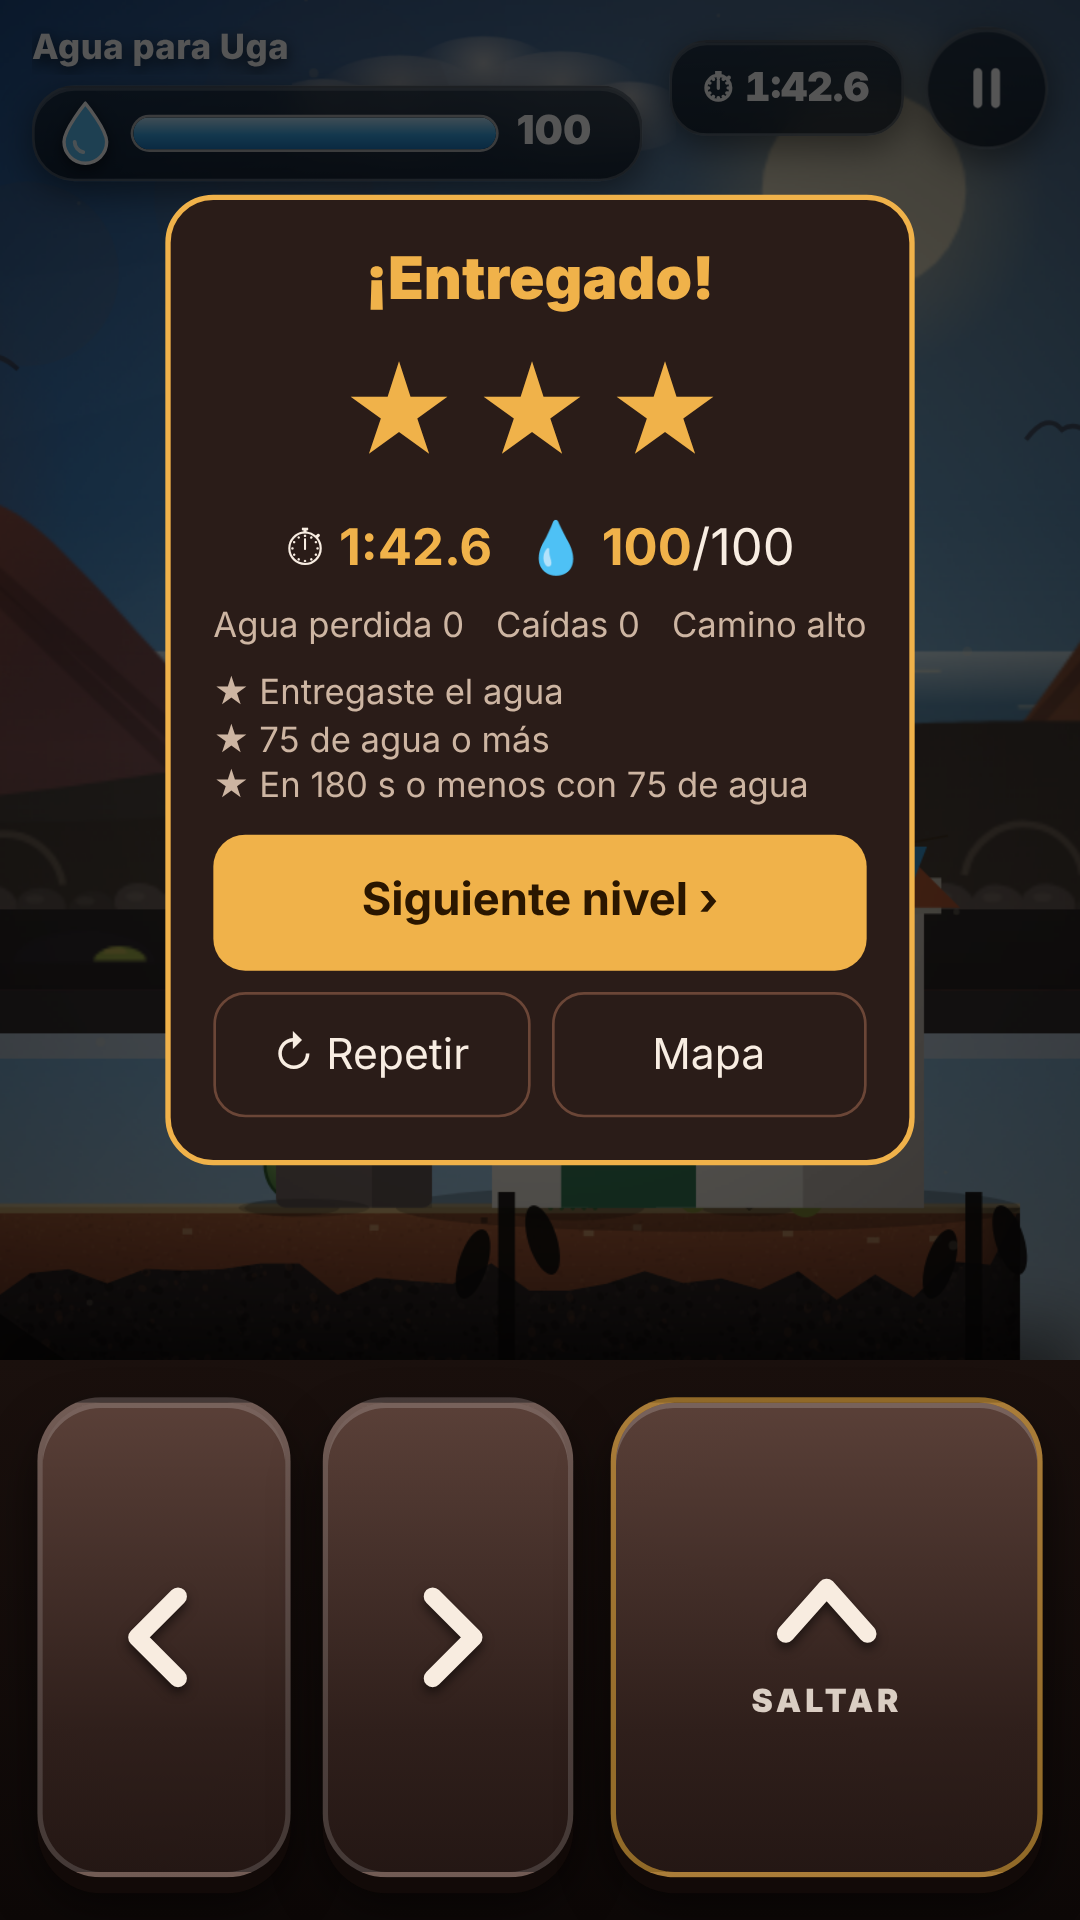
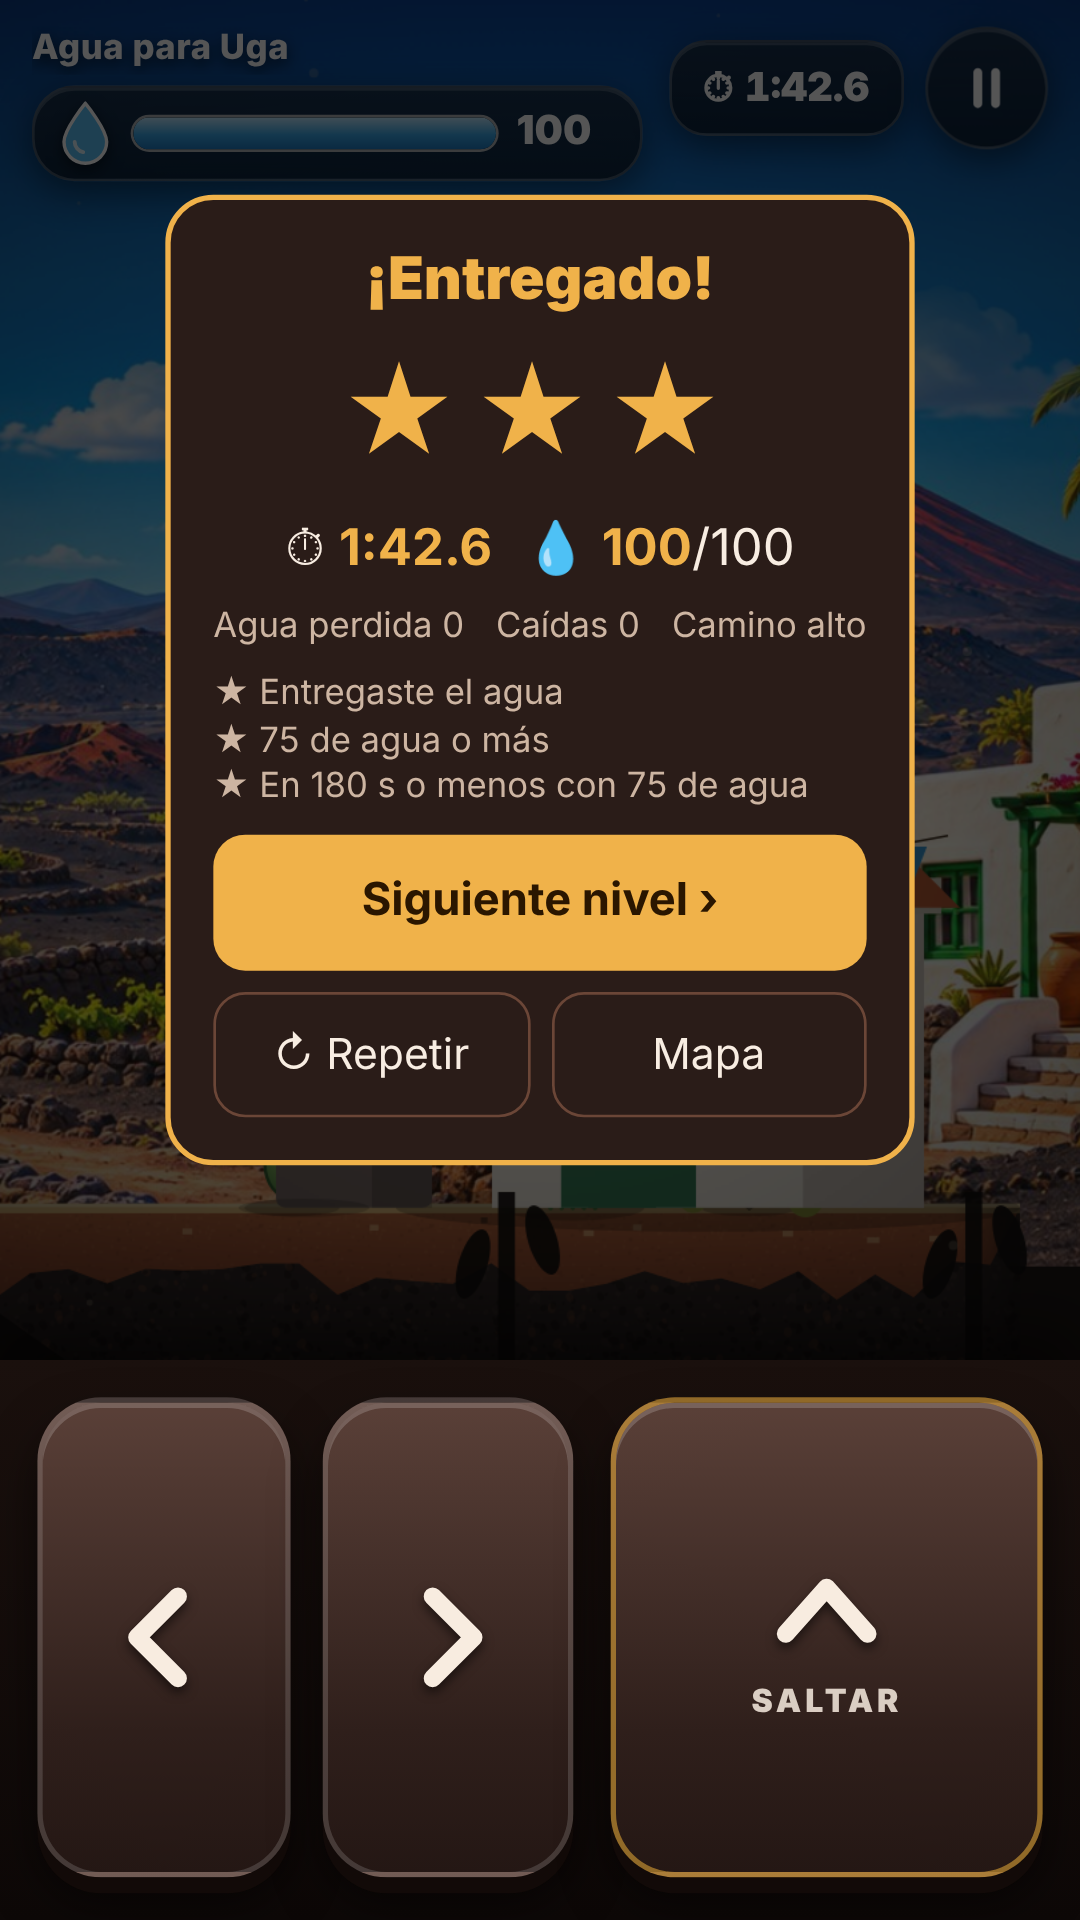
1.11.0: paisajes ilustrados de Lanzarote como fondo (mañana, tarde y atardecer según el nivel), en espejo con paralaje y apoyados en el suelo visible
Claude-Session: https://claude.ai/code/session_01H2Jf8v1MHtV6zTpVoU4WWj

diff --git a/docs/app/dibujo.js b/docs/app/dibujo.js
@@ -460,7 +460,34 @@
     ctx.fillStyle = '#16100f'; ctx.fillRect(0, by + u * 0.8, W, H);
   }
 
+  /* Paisaje ilustrado (paisaje.jpg, 1672×640): se repite en espejo para que empalme sin cortes y se desplaza despacio (paralaje) */
+  const PAI = { w: 1672, h: 640, suelo: null, fotos: [
+    { src: 'paisaje.jpg', cielo: ['#0050c0', '#0e8ce7'] },          // mañana y mediodía
+    { src: 'paisaje-tarde.jpg', cielo: ['#3d78d0', '#669fe9'] },    // tarde
+    { src: 'paisaje-ocaso.jpg', cielo: ['#41629c', '#6c8cc4'] }],   // atardecer
+    porTema: [0, 0, 1, 2, 1, 2] };
+  function fotoTema(tema) {
+    const f = PAI.fotos[PAI.porTema[tema] || 0];
+    if (!f.img && typeof Image !== 'undefined') { f.img = new Image(); f.img.onload = () => { f.ok = true; }; f.img.src = f.src; }
+    return f.ok ? f : null;
+  }
+  fotoTema(0);
+  function dibujaPaisaje(ctx, W, H, u, cam, TM, t, F) {
+    const suelo = (PAI.suelo != null ? PAI.suelo : H - H * (W < H ? 0.27 : 0.3)) + u * 0.5;   // el dibujo se apoya en el suelo que se ve en pantalla
+    const alto = Math.max(suelo * 0.78, u * 6.5), k = alto / PAI.h, ancho = PAI.w * k, top = suelo - alto;
+    let g = ctx.createLinearGradient(0, 0, 0, Math.max(1, top + 2)); g.addColorStop(0, F.cielo[0]); g.addColorStop(1, F.cielo[1]); ctx.fillStyle = g; ctx.fillRect(0, 0, W, Math.max(0, top) + 2);
+    const off = cam.x * u * 0.18, i0 = Math.floor(off / ancho);
+    for (let i = i0; ancho * i - off < W; i++) {
+      const x = ancho * i - off;
+      if (i % 2 === 0) ctx.drawImage(F.img, x, top, ancho + 1, alto);
+      else { ctx.save(); ctx.translate(x + ancho, top); ctx.scale(-1, 1); ctx.drawImage(F.img, 0, 0, ancho + 1, alto); ctx.restore(); }
+    }
+    if (top > 0) { const fz = alto * 0.14, gf = ctx.createLinearGradient(0, top - 1, 0, top + fz); gf.addColorStop(0, F.cielo[1]); gf.addColorStop(1, F.cielo[1] + '00'); ctx.fillStyle = gf; ctx.fillRect(0, top - 1, W, fz + 1); }   // empalme suave entre el cielo y el dibujo
+    ctx.fillStyle = '#16100f'; ctx.fillRect(0, suelo - 1, W, H - suelo + 1);
+    if (TM.tinte && TEMAS.indexOf(TM) === 4) { ctx.fillStyle = TM.tinte.replace(/[\d.]+\)$/, m => (parseFloat(m) * 2.5).toFixed(2) + ')'); ctx.fillRect(0, 0, W, suelo); }
+  }
   function dibujaFondo(ctx, W, H, u, cam, TM, t) {
+    { const F = fotoTema(TEMAS.indexOf(TM)); if (F) return dibujaPaisaje(ctx, W, H, u, cam, TM, t, F); }
     const cv = ctx.canvas, tema = TEMAS.indexOf(TM), key = W + 'x' + H + 'x' + u.toFixed(2) + 'x' + tema;
     let c = CACHE.get(cv); if (!c || c.key !== key) { c = { key, capas: {} }; CACHE.set(cv, c); }
     if (!c.cielo) {   // cielo, sol y rayos: una sola vez
@@ -602,6 +629,9 @@
   function dibujaEscena(ctx, W, H, u, cam, L, esc, t, fx) {
     const TM = TEMAS[esc.tema || 0], TX = texturas();
     const sx = wx => (wx - cam.x) * u, sy = wy => H - (wy - cam.y) * u;
+    { // altura en pantalla del suelo bajo el centro de la vista (suavizada) para apoyar el paisaje
+      const cx = cam.x + W / u / 2; let top = null; for (const s of L.solids) if (s.kind === 'ground' && s.x0 <= cx + 3 && s.x1 >= cx - 3 && (top == null || s.top > top)) top = s.top;
+      if (top != null) { const y = sy(top); PAI.suelo = PAI.suelo == null || Math.abs(PAI.suelo - y) > H * 0.5 ? y : PAI.suelo + (y - PAI.suelo) * 0.06; } }
     dibujaFondo(ctx, W, H, u, cam, TM, t);
     // abismo de los huecos
     for (const h of esc.huecos) {

diff --git a/www/dibujo.js b/www/dibujo.js
@@ -460,7 +460,34 @@
     ctx.fillStyle = '#16100f'; ctx.fillRect(0, by + u * 0.8, W, H);
   }
 
+  /* Paisaje ilustrado (paisaje.jpg, 1672×640): se repite en espejo para que empalme sin cortes y se desplaza despacio (paralaje) */
+  const PAI = { w: 1672, h: 640, suelo: null, fotos: [
+    { src: 'paisaje.jpg', cielo: ['#0050c0', '#0e8ce7'] },          // mañana y mediodía
+    { src: 'paisaje-tarde.jpg', cielo: ['#3d78d0', '#669fe9'] },    // tarde
+    { src: 'paisaje-ocaso.jpg', cielo: ['#41629c', '#6c8cc4'] }],   // atardecer
+    porTema: [0, 0, 1, 2, 1, 2] };
+  function fotoTema(tema) {
+    const f = PAI.fotos[PAI.porTema[tema] || 0];
+    if (!f.img && typeof Image !== 'undefined') { f.img = new Image(); f.img.onload = () => { f.ok = true; }; f.img.src = f.src; }
+    return f.ok ? f : null;
+  }
+  fotoTema(0);
+  function dibujaPaisaje(ctx, W, H, u, cam, TM, t, F) {
+    const suelo = (PAI.suelo != null ? PAI.suelo : H - H * (W < H ? 0.27 : 0.3)) + u * 0.5;   // el dibujo se apoya en el suelo que se ve en pantalla
+    const alto = Math.max(suelo * 0.78, u * 6.5), k = alto / PAI.h, ancho = PAI.w * k, top = suelo - alto;
+    let g = ctx.createLinearGradient(0, 0, 0, Math.max(1, top + 2)); g.addColorStop(0, F.cielo[0]); g.addColorStop(1, F.cielo[1]); ctx.fillStyle = g; ctx.fillRect(0, 0, W, Math.max(0, top) + 2);
+    const off = cam.x * u * 0.18, i0 = Math.floor(off / ancho);
+    for (let i = i0; ancho * i - off < W; i++) {
+      const x = ancho * i - off;
+      if (i % 2 === 0) ctx.drawImage(F.img, x, top, ancho + 1, alto);
+      else { ctx.save(); ctx.translate(x + ancho, top); ctx.scale(-1, 1); ctx.drawImage(F.img, 0, 0, ancho + 1, alto); ctx.restore(); }
+    }
+    if (top > 0) { const fz = alto * 0.14, gf = ctx.createLinearGradient(0, top - 1, 0, top + fz); gf.addColorStop(0, F.cielo[1]); gf.addColorStop(1, F.cielo[1] + '00'); ctx.fillStyle = gf; ctx.fillRect(0, top - 1, W, fz + 1); }   // empalme suave entre el cielo y el dibujo
+    ctx.fillStyle = '#16100f'; ctx.fillRect(0, suelo - 1, W, H - suelo + 1);
+    if (TM.tinte && TEMAS.indexOf(TM) === 4) { ctx.fillStyle = TM.tinte.replace(/[\d.]+\)$/, m => (parseFloat(m) * 2.5).toFixed(2) + ')'); ctx.fillRect(0, 0, W, suelo); }
+  }
   function dibujaFondo(ctx, W, H, u, cam, TM, t) {
+    { const F = fotoTema(TEMAS.indexOf(TM)); if (F) return dibujaPaisaje(ctx, W, H, u, cam, TM, t, F); }
     const cv = ctx.canvas, tema = TEMAS.indexOf(TM), key = W + 'x' + H + 'x' + u.toFixed(2) + 'x' + tema;
     let c = CACHE.get(cv); if (!c || c.key !== key) { c = { key, capas: {} }; CACHE.set(cv, c); }
     if (!c.cielo) {   // cielo, sol y rayos: una sola vez
@@ -602,6 +629,9 @@
   function dibujaEscena(ctx, W, H, u, cam, L, esc, t, fx) {
     const TM = TEMAS[esc.tema || 0], TX = texturas();
     const sx = wx => (wx - cam.x) * u, sy = wy => H - (wy - cam.y) * u;
+    { // altura en pantalla del suelo bajo el centro de la vista (suavizada) para apoyar el paisaje
+      const cx = cam.x + W / u / 2; let top = null; for (const s of L.solids) if (s.kind === 'ground' && s.x0 <= cx + 3 && s.x1 >= cx - 3 && (top == null || s.top > top)) top = s.top;
+      if (top != null) { const y = sy(top); PAI.suelo = PAI.suelo == null || Math.abs(PAI.suelo - y) > H * 0.5 ? y : PAI.suelo + (y - PAI.suelo) * 0.06; } }
     dibujaFondo(ctx, W, H, u, cam, TM, t);
     // abismo de los huecos
     for (const h of esc.huecos) {

diff --git a/docs/app/sw.js b/docs/app/sw.js
@@ -1,8 +1,8 @@
 // Service worker: deja la versión web disponible sin conexión.
 // En la app Android no hace falta (los archivos ya van dentro del APK) y podría servir
 // una versión antigua tras actualizar, así que allí se da de baja solo.
-const CACHE = 'martin-v1.10.0';
-const ASSETS = ['./', 'index.html', 'martin.js', 'niveles.js', 'juego.js', 'dibujo.js', 'camello.png', 'portada.jpg', 'manifest.webmanifest', 'icons/icon-192.png', 'icons/icon-512.png', 'icons/icon-maskable-512.png', 'icons/apple-touch-icon.png', 'i18n-en.js', 'i18n-fr.js', 'i18n-de.js', 'i18n-it.js', 'idioma.js', 'masjuegos.js', 'audio-suave.js', 'turno.js', 'contador.js', 'invitacion.js', 'publicas.js', 'juegos/ajedrez.png', 'juegos/chinchon.png', 'juegos/pumba.png', 'juegos/damas.png', 'juegos/parchis.png', 'juegos/poker.png', 'juegos/uno.png', 'juegos/martin.png'];
+const CACHE = 'martin-v1.11.0';
+const ASSETS = ['./', 'index.html', 'martin.js', 'niveles.js', 'juego.js', 'dibujo.js', 'camello.png', 'portada.jpg', 'paisaje.jpg', 'paisaje-tarde.jpg', 'paisaje-ocaso.jpg', 'manifest.webmanifest', 'icons/icon-192.png', 'icons/icon-512.png', 'icons/icon-maskable-512.png', 'icons/apple-touch-icon.png', 'i18n-en.js', 'i18n-fr.js', 'i18n-de.js', 'i18n-it.js', 'idioma.js', 'masjuegos.js', 'audio-suave.js', 'turno.js', 'contador.js', 'invitacion.js', 'publicas.js', 'juegos/ajedrez.png', 'juegos/chinchon.png', 'juegos/pumba.png', 'juegos/damas.png', 'juegos/parchis.png', 'juegos/poker.png', 'juegos/uno.png', 'juegos/martin.png'];
 const NATIVE = self.location.hostname === 'localhost' && self.location.protocol === 'https:';
 
 self.addEventListener('install', e => {

diff --git a/www/sw.js b/www/sw.js
@@ -1,8 +1,8 @@
 // Service worker: deja la versión web disponible sin conexión.
 // En la app Android no hace falta (los archivos ya van dentro del APK) y podría servir
 // una versión antigua tras actualizar, así que allí se da de baja solo.
-const CACHE = 'martin-v1.10.0';
-const ASSETS = ['./', 'index.html', 'martin.js', 'niveles.js', 'juego.js', 'dibujo.js', 'camello.png', 'portada.jpg', 'manifest.webmanifest', 'icons/icon-192.png', 'icons/icon-512.png', 'icons/icon-maskable-512.png', 'icons/apple-touch-icon.png', 'i18n-en.js', 'i18n-fr.js', 'i18n-de.js', 'i18n-it.js', 'idioma.js', 'masjuegos.js', 'audio-suave.js', 'turno.js', 'contador.js', 'invitacion.js', 'publicas.js', 'juegos/ajedrez.png', 'juegos/chinchon.png', 'juegos/pumba.png', 'juegos/damas.png', 'juegos/parchis.png', 'juegos/poker.png', 'juegos/uno.png', 'juegos/martin.png'];
+const CACHE = 'martin-v1.11.0';
+const ASSETS = ['./', 'index.html', 'martin.js', 'niveles.js', 'juego.js', 'dibujo.js', 'camello.png', 'portada.jpg', 'paisaje.jpg', 'paisaje-tarde.jpg', 'paisaje-ocaso.jpg', 'manifest.webmanifest', 'icons/icon-192.png', 'icons/icon-512.png', 'icons/icon-maskable-512.png', 'icons/apple-touch-icon.png', 'i18n-en.js', 'i18n-fr.js', 'i18n-de.js', 'i18n-it.js', 'idioma.js', 'masjuegos.js', 'audio-suave.js', 'turno.js', 'contador.js', 'invitacion.js', 'publicas.js', 'juegos/ajedrez.png', 'juegos/chinchon.png', 'juegos/pumba.png', 'juegos/damas.png', 'juegos/parchis.png', 'juegos/poker.png', 'juegos/uno.png', 'juegos/martin.png'];
 const NATIVE = self.location.hostname === 'localhost' && self.location.protocol === 'https:';
 
 self.addEventListener('install', e => {

diff --git a/docs/app/index.html b/docs/app/index.html
@@ -407,7 +407,7 @@ function openThemes() {
   AvisoTurno.enlazar();
 }
 
-const APP_VERSION = '1.10.0';
+const APP_VERSION = '1.11.0';
 const REPO = 'csuarezsm/Martin';
 const MAX_ARCHIVE = 500;
 const uid = () => Math.random().toString(36).slice(2, 10);

diff --git a/www/index.html b/www/index.html
@@ -407,7 +407,7 @@ function openThemes() {
   AvisoTurno.enlazar();
 }
 
-const APP_VERSION = '1.10.0';
+const APP_VERSION = '1.11.0';
 const REPO = 'csuarezsm/Martin';
 const MAX_ARCHIVE = 500;
 const uid = () => Math.random().toString(36).slice(2, 10);

diff --git a/README.md b/README.md
@@ -2,7 +2,7 @@
 
 Un camello canario joven de Uga lleva el agua por los caminos que dejó la tormenta: lava, rocas, huecos y bajadas. **6 niveles de plataformas** con tres estrellas cada uno, a veces con dos caminos (uno rápido y arriesgado, otro lento y seguro), y un **reto diario** igual para todos con ranking.
 Para Android e iPhone. Gratis, sin anuncios y sin cuentas. App Capacitor + web (`www/`). Todo se guarda en el móvil; solo el reto diario usa el servidor de juegos (nombre y pulsaciones, para comprobar el tiempo).
-Paquete: `com.itcanarias.martin` · versión 1.10.0
+Paquete: `com.itcanarias.martin` · versión 1.11.0
 
 **iPhone y navegadores**: la misma app se publica como versión web instalable en https://csuarezsm.github.io/Martin/app/ (GitHub Pages, carpeta `docs/app`, copia de `www/`). En Safari: Compartir → «Añadir a pantalla de inicio». Tras cambiar `www/`, ejecuta `npm run web`.
 
